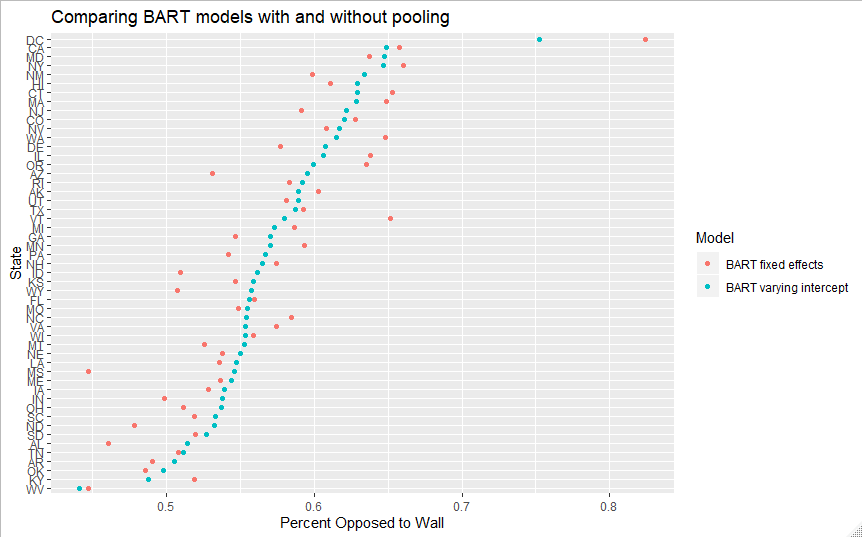
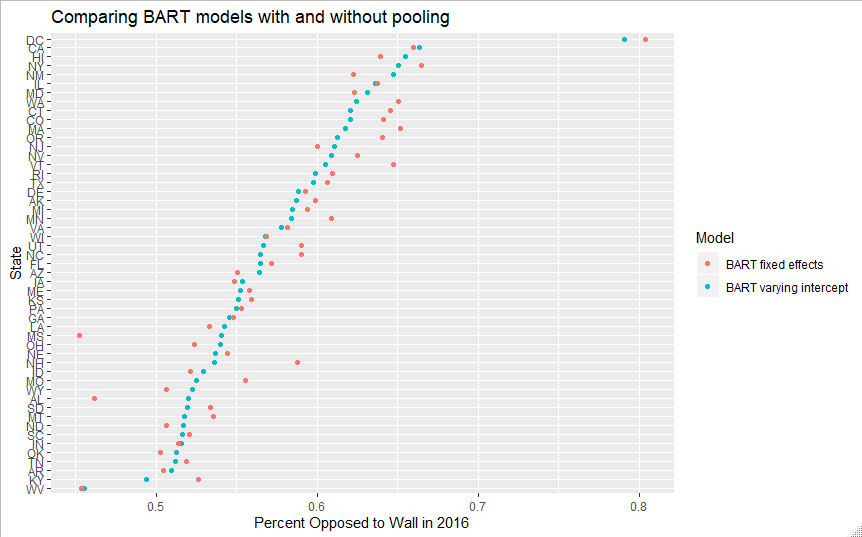
Added full posterior plots from paper to BART-vi post

diff --git a/_posts/2020-03-06-BART-vi.md b/_posts/2020-03-06-BART-vi.md
@@ -86,11 +86,15 @@ I provide two forms of evaluation for BART-vi vs regular BART, a quantitative as
 
 To test the performance of this modification, I fit BART with and without varying intercept on state to the same $$m = 50$$ imputed<sup>[1](#imputationnote)</sup> datasets, using 10-fold cross validation within each dataset. Overall, while both models are extremely accurate, the BART-vi model slightly outperforms the regular BART model without varying intercepts in terms of RMSE, MSE, and AUC on average. Of course, given that this is a test of predictive accuracy before the final poststratification, this isn't a full validation of BART-vi's predictive superiority in the MRP context. However, this is consistent with [(Tan, 2018)](https://deepblue.lib.umich.edu/handle/2027.42/147594)'s result in a more extensive set of simulation studies that there are small gains in accuracy to be had with BART-vi when random effects are used with an appropriate grouping variable. To make such a comparison completely rigorously, one would need to fit both types of models on a dataset with a ground truth such as vote share, poststratify, and then contrast their properties relative to that ground truth, not simply compare predictive accuracy on the initial set of surveys. However, as this is not possible for the border wall question, I take this as a rough suggestion that BART-vi may preform better in my context, and possibly in others.
 
-Plotting a comparison of the state-level predictions from the two models after poststratification shows a familiar pattern of pooling. The BART-vi estimates are pulled somewhat towards the grand mean, whereas the ones without varying intercepts are a bit more spread out. Note, however, that we don't see the sort of [idealized pooling](https://twitter.com/rlmcelreath/status/878268413952634880/photo/1) trend often shown in textbook examples of multilevel models, with non-multilevel predictions that are uniformly higher above the  grand mean and uniformly lower below it compared to the multilevel predictions. This is due to the simple BART model modeling much more complex interactions based on the state variables than a single level regression.
+Plotting a comparison of the state-level median prediction from the two models after poststratification shows a familiar pattern of pooling. The BART-vi estimates are pulled somewhat towards the grand mean, whereas the ones without varying intercepts are a bit more spread out. Note, however, that we don't see the sort of [idealized pooling](https://twitter.com/rlmcelreath/status/878268413952634880/photo/1) trend often shown in textbook examples of multilevel models, with non-multilevel predictions that are uniformly higher above the  grand mean and uniformly lower below it compared to the multilevel predictions. This is due to the simple BART model modeling much more complex interactions based on the state variables than a single level regression.
 
 ![BART models with and without pooling]({{ site.baseurl }}/assets/img/BART-vi/bart-compare.png)
 
  One particularly interesting qualitative example to illustrate the differences between the models is that of DC, which is both a small state, and an incredibly liberal one. This presents a dilemma from the perspective of varying intercepts pooling: on the one hand, with only 94 observations in the full data, we should want some pooling on DC's estimate. On the other, DC genuinely is exceptionally liberal, which suggests that pooling it too much could hurt predictive performance. While both already somewhat regularize  the 13% raw approval for the wall in our aggregated polls, BART-vi does so much more. Thus, while the average predictions are of higher quality with BART-vi, the DC and other extreme state predictions are superior without random effects. Most prior MRP work has been happy to make this sort of trade off, and based on the rough accuracy comparisons I've made, this appears to work well for my data and my BART model as well.
+
+  Comparing the full posterior distributions of the two models below, we can also see BART-vi has noticably wider 50 and 90% intervals as well (the dot indicates the median, the thick bar is the 50% interval, and the thinnest bar is the 90% one). Like with my CV testing, a full sense of whether the quantification of uncertainty provided here will have to wait for future MRP work that leverages data with a ground truth. However, in many cases, the fixed effects intervals border on what I'd call concerningly small- I wouldn't be suprised if the coverage properties of the BART-vi intervals are better.
+
+ ![Full Posterior of the Two Models]({{ site.baseurl }}/assets/img/BART-vi/full-post.jpeg)
 
 ## Next steps
 
